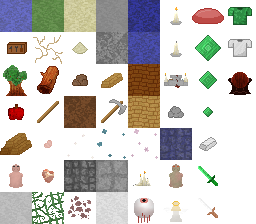
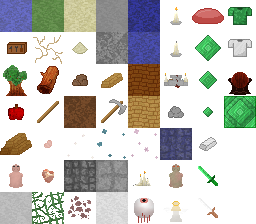
Gem walls

Changed region(s): [[0.875, 0.4062, 1.0, 0.5938]]

diff --git a/game/scenes/world.py b/game/scenes/world.py
@@ -150,6 +150,8 @@ class GameScene(Scene):
     ARMOUR_I = 7, 1
     VAMPIRE = 7, 2
 
+    GEM_WALL = 7, 3
+
     # Assets
     HEART = 0, 0
     ARMOUR = 1, 0
@@ -200,7 +202,6 @@ class GameScene(Scene):
     )
     FLOATING = (
         EYE,
-        ANGEL,
     )
     HOSTILE = (
         EYE,
@@ -220,11 +221,15 @@ class GameScene(Scene):
         (PIG_HEART, PIG_HEART, PIG_HEART, CANDLE_G, CANDLE_G): ALTAR,
         (STICK, STICK, STICK, STICK): PLANK_F_DROP,
         (PLANK_F_DROP, PLANK_F_DROP): PLANK_W_DROP,
-        (LOG_DROP,): STICK,
         (GEM_S, GEM_S, STICK): SWORD_S,
         (INGOT, INGOT, SWORD_S): SWORD_I,
         (GEM_L, PIG_HEART, PIG_MEAT): ARMOUR_S,
         (ARMOUR_S, INGOT, INGOT): ARMOUR_I,
+
+        (GEM_S, GEM_S, GEM_S, GEM_S, GEM_S): GEM_M,
+        (GEM_M, GEM_M, GEM_M, GEM_M, GEM_M): GEM_L,
+        (GEM_S, GEM_M, GEM_L): GEM_WALL,
+        (LOG_DROP,): STICK,
     }
     SACRIFICES = {
         STICK: 0.05,
@@ -236,6 +241,9 @@ class GameScene(Scene):
         CANDLE: 0.5,
         CANDLE_G: 1,
         ALTAR: 4,
+        GEM_M: 0.5,
+        GEM_L: 1,
+        GEM_WALL: 1,
     }
 
     # Digging stuff
@@ -270,6 +278,7 @@ class GameScene(Scene):
         CANDLE_L: 1,
         ALTAR: 25,
         ROCK_WALL: 15,
+        GEM_WALL: 50,
     }
     DIG_T = {
         GRASS: 0.3,
@@ -291,6 +300,7 @@ class GameScene(Scene):
         CANDLE_L: 0.3,
         CANDLE_G: 0.9,
         ALTAR: 4,
+        GEM_WALL: 2,
     }
     E_DROPS = {
         TREE: LOG_DROP,
@@ -300,6 +310,7 @@ class GameScene(Scene):
         PLANK_W: LOG_DROP,
         ROCK_WALL: RUBBLE,
         CANDLE_G: CANDLE_G,
+        GEM_WALL: GEM_L,
     }
     A_HEALTH = {
         PIG: 10,
@@ -322,9 +333,13 @@ class GameScene(Scene):
 
     # Waves 'n stuff
     WAVE_TIMERS = (
-        1, 2, 3, 3, 3, 3, 3, 2, 1, 0.5, 0.25, 0.1
+        1, 2, 3, 3, 3, 3, 3, 2
     )  # Minutes
 
+    BREAKERS = (
+        VAMPIRE,
+        ANGEL,
+    )
     V_RANGE = {
         EYE: 75,
         ANGEL: 30,
@@ -650,7 +665,7 @@ class GameScene(Scene):
                 self.set_g(tx, ty, self.PLANK_W)
                 used = 1
         # Standard placeable items
-        elif item[0] in (self.CANDLE, self.CANDLE_G, self.ALTAR):
+        elif item[0] in (self.CANDLE, self.CANDLE_G, self.ALTAR, self.GEM_WALL):
             if self.world[tx][ty] in self.PLACEABLE:
                 for i in self.g_entities:
                     if tuple(i[0:2]) == (tx, ty):
@@ -740,7 +755,7 @@ class GameScene(Scene):
             time.sleep(0.1)
 
         while self.active:
-            ge = [(int(x), int(y)) for x, y, _, __ in self.g_entities]
+            ge = {(int(i[0]), int(i[1])): i for i in self.g_entities}
 
             # Move animals
             for i in self.animals:
@@ -776,6 +791,13 @@ class GameScene(Scene):
                     for dxi in range(0, 2 if (i[0] + dx) % self.ground.tw != 0 else 1):
                         for dyi in range(0, 2 if (i[1] + dy) % self.ground.th != 0 else 1):
                             if (ntx + dxi, nty + dyi) in ge:
+                                if i[2] in self.BREAKERS:
+                                    j = ge[(ntx + dxi, nty + dyi)]
+                                    j[3] -= random.random() / 3
+                                    if j[3] <= 0:
+                                        self.set_g(j[0], j[1], None)
+                                        if j[2] == self.ALTAR:
+                                            self.altars -= 1
                                 break
                         else:
                             continue
@@ -866,11 +888,15 @@ class GameScene(Scene):
         for i in self.RECIPIES:
             crafted = self.can_craft(i, usable)
             if crafted:
-                for j in crafted:
-                    self.entities.remove(j)
-                self.drop_item(self.pos[0] / self.ground.tw, self.pos[1] / self.ground.th, self.RECIPIES[i])
+                cost = self.SACRIFICES.get(self.RECIPIES[i], 0)
+                if cost > self.health:
+                    self.do_chat('You need {} hp to form this'.format(cost))
+                else:
+                    for j in crafted:
+                        self.entities.remove(j)
+                    self.drop_item(self.pos[0] / self.ground.tw, self.pos[1] / self.ground.th, self.RECIPIES[i])
 
-                self.health -= self.SACRIFICES.get(self.RECIPIES[i], 0)
+                    self.health -= cost
                 break
 
     @property
@@ -1221,5 +1247,4 @@ class GameScene(Scene):
                 y += self.assets.th * 2 + 8
                 if y + self.assets.th * 2 > self.screen.get_height():
                     y = 16
-                    sx += 512
-            pass
+                    sx += 456

diff --git a/game/game.py b/game/game.py
@@ -58,7 +58,35 @@ class Game:
             self.scenes[0].active = False
             self.game_scene.start()
 
-        self.console.expose(game=self, scenes=self.scenes, gs=self.game_scene)
+        for i in dir(self.game_scene):
+            if i[0] != '_':
+                self.console.expose(**{i: getattr(self.game_scene, i)})
+        self.console.expose(game=self, scenes=self.scenes, gs=self.game_scene, help=self.con_help, give=self.con_give)
+
+    def con_give(self, item, amount):
+        for i in dir(self.game_scene):
+            if getattr(self.game_scene, i) == item and i.isupper():
+                name = i
+                break
+        else:
+            return print('Unknown item')
+
+        for n, i in enumerate(self.game_scene.hotbar):
+            if i is None:
+                self.game_scene.hotbar[n] = [item, amount]
+                break
+            elif i[0] == item:
+                i[1] += amount
+                break
+        else:
+            for _ in range(amount):
+                self.game_scene.drop_item(self.game_scene.pos[0], self.game_scene.pos[1], item)
+
+        print('Gave player {} {}s'.format(amount, name))
+
+    @staticmethod
+    def con_help():
+        print(' > give(ITEM, AMOUNT)')
 
     def tick(self, dt):
         for i in self.scenes:

diff --git a/game/console.py b/game/console.py
@@ -30,6 +30,8 @@ class Console:
     PS1 = '>>> '
     PS2 = '... '
 
+    LINE_WIDTH = 100
+
     def __init__(self, screen=None, height=400):
         self._stdout = sys.stdout
         sys.stdout = self
@@ -41,7 +43,7 @@ class Console:
 
         self.log('Debug console started')
 
-        self.background = (0, 0, 0, 200)
+        self.background = (0, 0, 0, 230)
 
         pygame.font.init()
         self.font = pygame.font.Font("assets/Monospace.ttf", 14)
@@ -63,6 +65,12 @@ class Console:
     # Make file-like
     def write(self, text):
         self._stdout.write(text)
+
+        for line in text.split('\n'):
+            for i in [line[i:i+self.LINE_WIDTH] for i in range(0, len(line), self.LINE_WIDTH)]:
+                self._write(i + '\n')
+
+    def _write(self, text):
         for char in text:
             if char == '\n':
                 self._lines.append((
